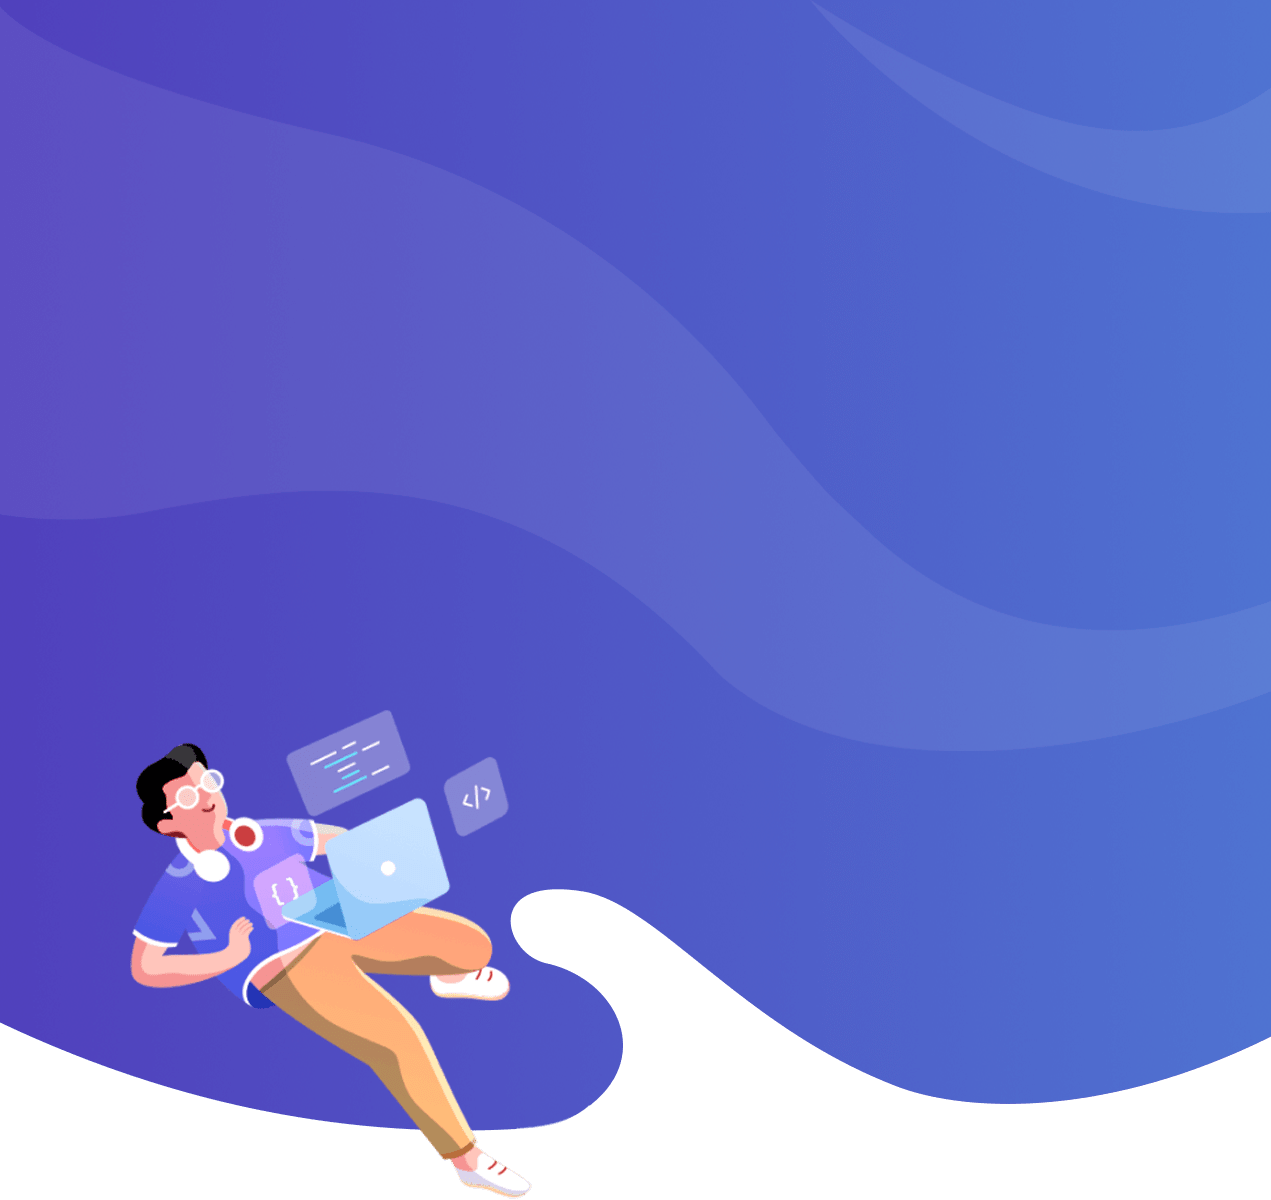
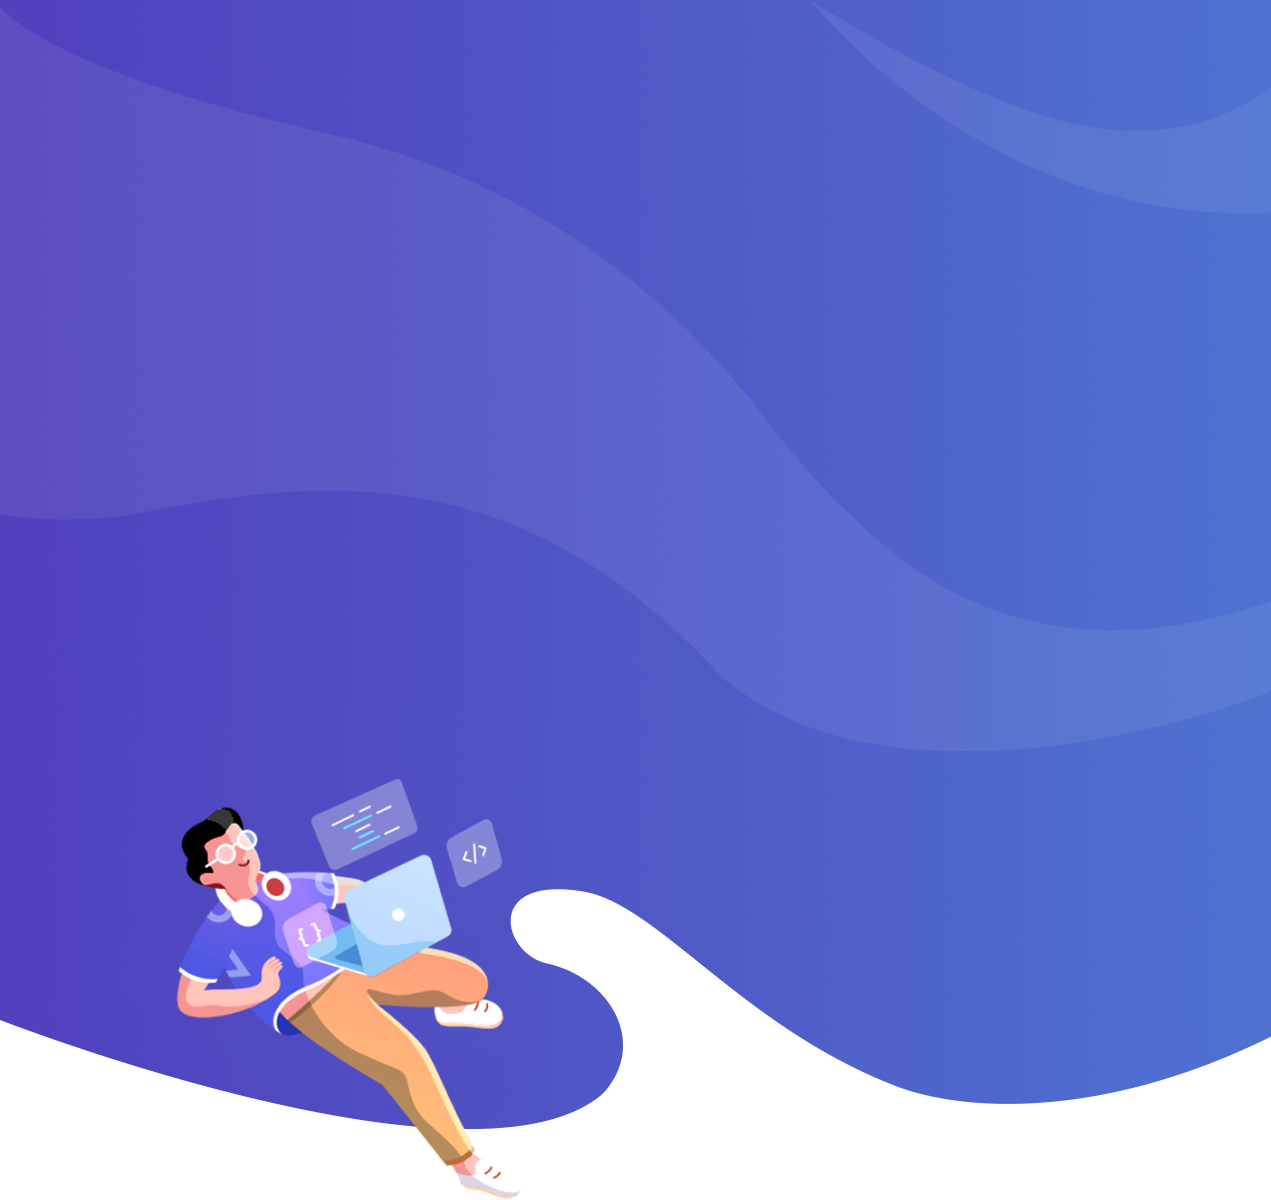
adjusted header bg image

Changed region(s): [[0.0921, 0.5858, 0.4603, 1.0], [0.0307, 0.8633, 0.2148, 0.925], [0.0, 0.8325, 0.0307, 0.8633]]

diff --git a/assets/css/style.css b/assets/css/style.css
@@ -20,11 +20,10 @@ body {
 }
 
 header {
-  background: url('/assets/images/header_bg.png');
+  background: url('/assets/images/Final.png');
   background-repeat: no-repeat;
-  background-size: cover;
-  background-position: center -200px;
-  min-height: 1200px;
+  background-position: center -18em;
+  min-height: 850px;
 }
 
 .max-960  {
@@ -86,8 +85,11 @@ header {
 
 .intro {
   color: var(--link-main);
-  margin: 9em 0;
-  margin-bottom: 4em;
+  margin: 10em 0;
+  display: flex;
+  flex-direction: column;
+  align-items: center;
+  gap: 4em;
 }
 
 .salutation, .sub-title {
@@ -97,8 +99,9 @@ header {
 .title {
   font-family: var(--ff-secondary);
   font-size: 4.5rem;
-  font-size: clamp(3rem, 9vw, 4.5rem);
+  font-size: clamp(2.3rem, 9vw, 4.5rem);
   text-align: center;
+  margin-bottom: .2em;
 } 
 
 .sub-title {
@@ -119,6 +122,8 @@ header {
   letter-spacing: .25px;
   padding: .5em 1.75em;
   transition: background ease .3s;
+  /* box-shadow: 0 2em 2em rgb(37, 45, 117); */
+  box-shadow: 0 30px 40px 0 rgb(37 45 117/100%);
 }
 
 .cta:hover {
@@ -131,17 +136,34 @@ main {}
 
 footer {}
 
-@media only screen and (max-width: 850px) {
+/* ************* */
+/* MEDIA QUERIES */
+/* ************* */
+
+@media only screen and (max-width: 768px) {
   header {
-    background: url('/assets/images/header_bg_md-min.png');
+    background: url('/assets/images/sm.png');
     background-repeat: no-repeat;
-    background-size: cover;
-    background-position: 0 -100px;
-    min-height: 990px;
+    background-position: center -20em;
+    min-height: 720px;
+  }
+
+  .intro {
+    margin-top: 8em;
   }
 }
 
 @media only screen and (max-width: 600px) {
+  header {
+    background-position: -1em -20em;
+  }
+}
+
+@media only screen and (max-width: 600px) {
+  header {
+    background-position: -1em -25em;
+    min-height: 640px;
+  }
 
   .toggle-menu {
     display: flex;
@@ -162,7 +184,6 @@ footer {}
   }
 
   .toggle-menu:active, .toggle-menu:focus {
-    /* background: #000; */
     color: red;
   }
   
@@ -170,10 +191,41 @@ footer {}
     display: flex;
     flex-direction: column;
     align-items: center;
+    margin-top: 6em;
+  }
+
+  .sub-title {
+    text-align: center;
+    font-size: .8rem;
   }
 }
 
 @media only screen and (max-width: 380px) {
+  header {
+    background-position: -1em -25em;
+    background-position:  -6em -25em;
+  }
+  
+  .about-text {
+    display: flex;
+    flex-direction: column;
+    justify-content: center;
+    align-items: center;
+  }
+
+  .intro {
+    margin-top: 4em;
+  }
+  
+  .title {
+    line-height: 1.1em;
+    margin: .5em 0;
+  }
+
+  .sub-title {
+    text-align: center;
+  }
+
   .ctas {
     flex-direction: column;
   }

diff --git a/index.html b/index.html
@@ -30,13 +30,15 @@
         </li>
       </div>
       <div class="intro">
-        <span class="salutation">I'm</span>
-        <h1 class="title">Full-Stack Engineer</h1>
-        <span class="sub-title">I bring ideas and designs to life</span>
-      </div>
-      <div class="ctas">
-        <a href="#" class="cta">My Projects</a>
-        <a href="#" class="cta">View My CV</a>
+        <div class="about-text">
+          <!-- <span class="salutation">I'm</span> -->
+          <h1 class="title">Full-Stack Developer</h1>
+          <span class="sub-title">I bring ideas and designs to life</span>
+        </div>
+        <div class="ctas">
+          <a href="#" class="cta">My Projects</a>
+          <a href="#" class="cta">View My CV</a>
+        </div>
       </div>
     </div>
   </header>
